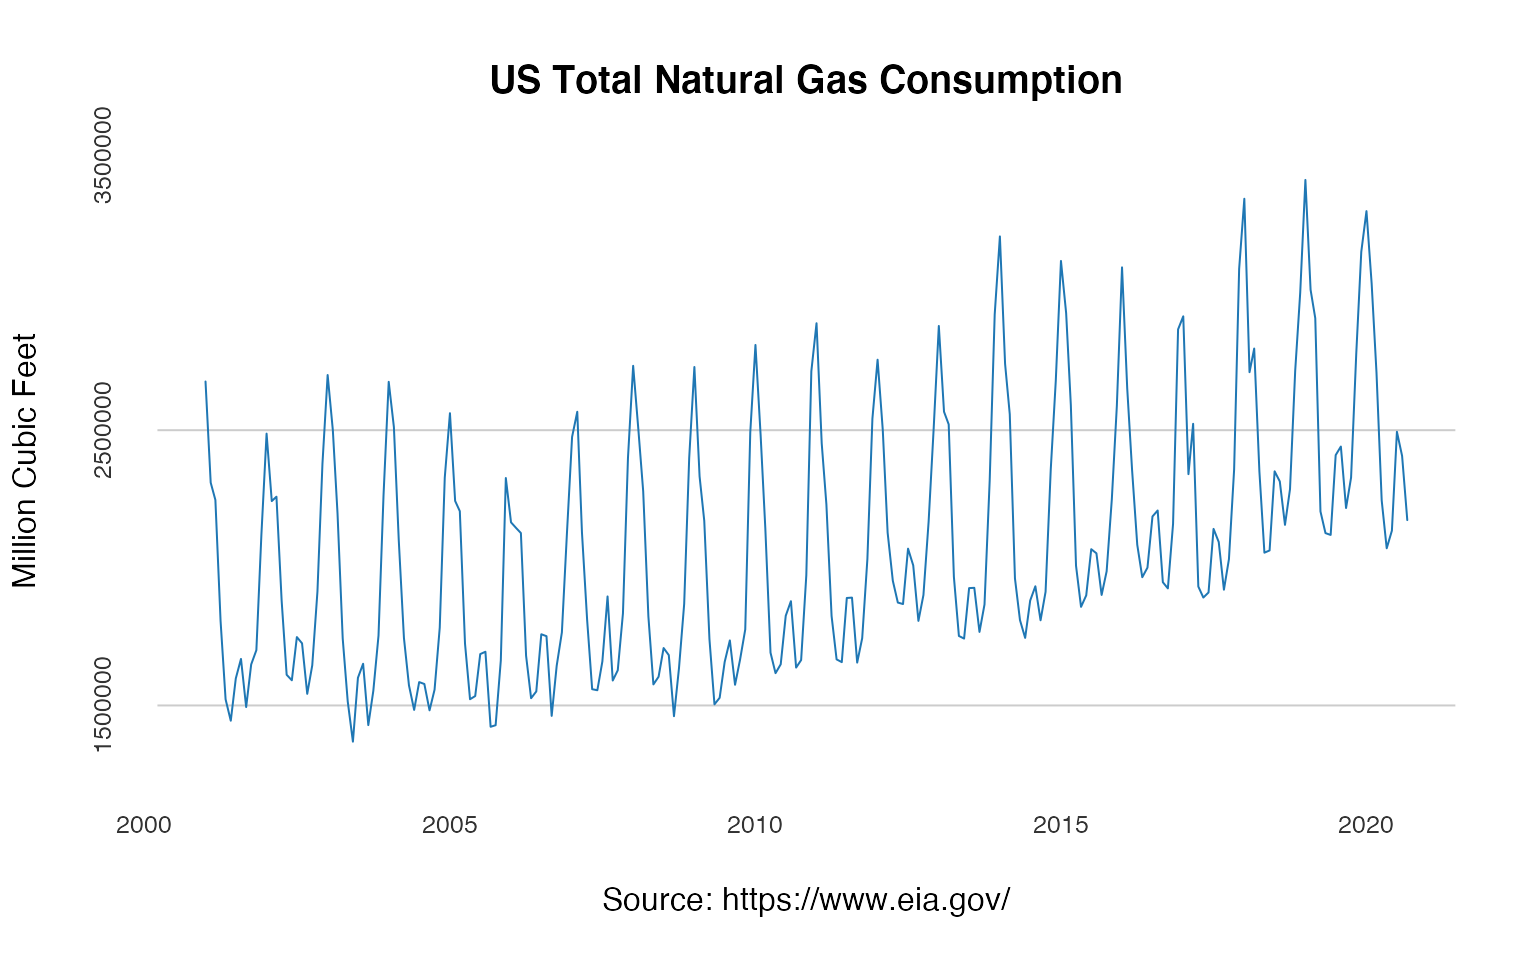
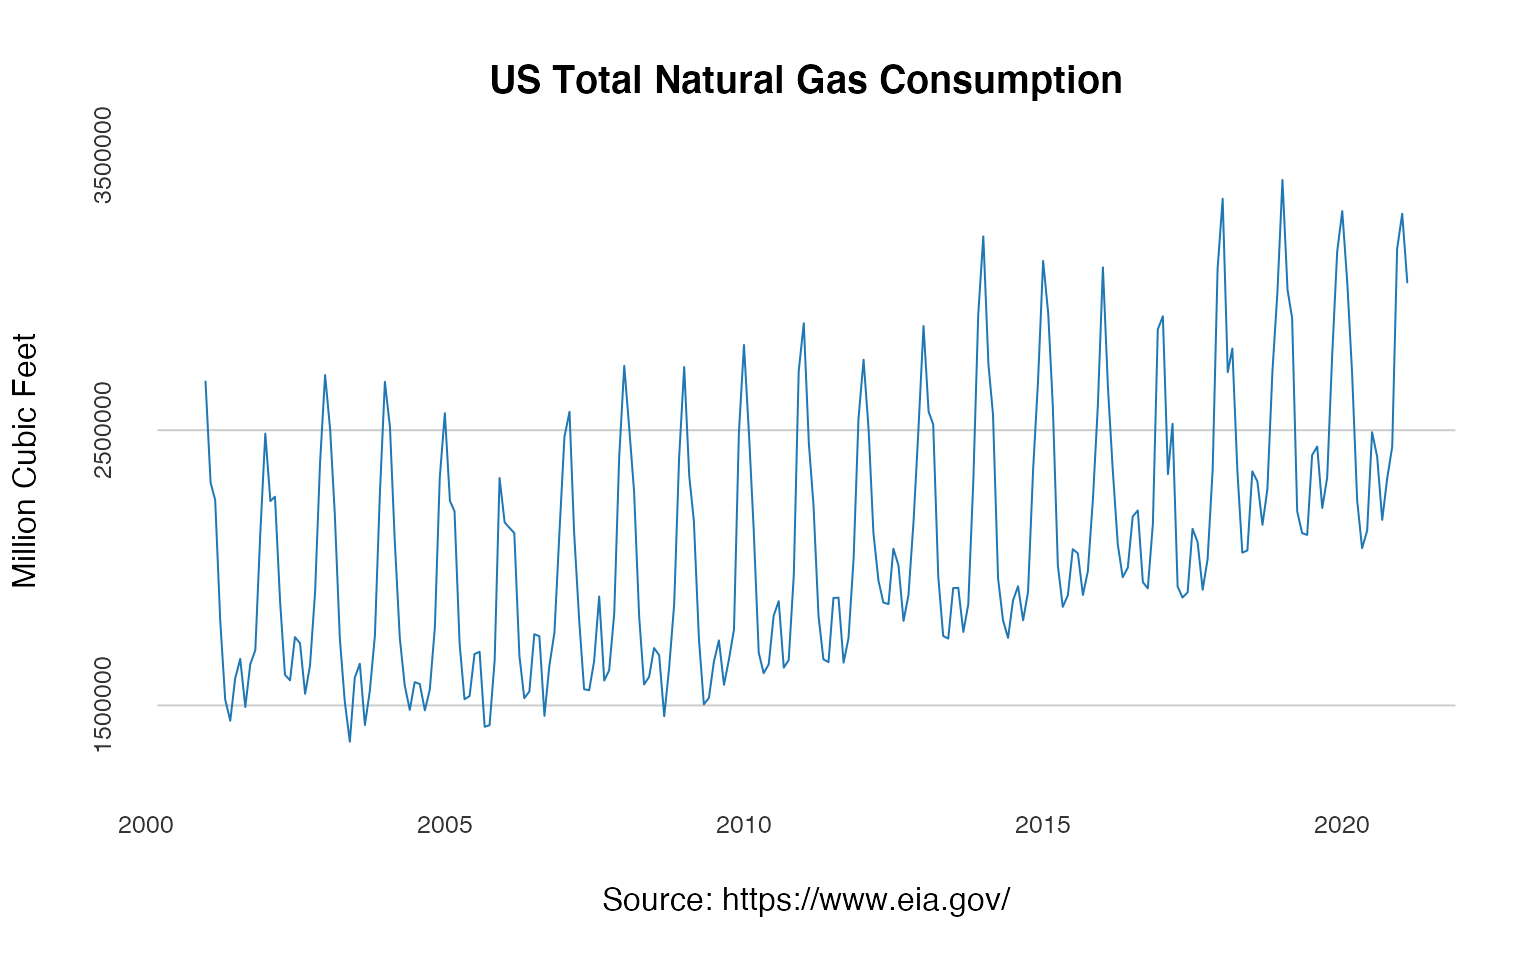
update the docs

diff --git a/docs/reference/us_total.html b/docs/reference/us_total.html
@@ -73,7 +73,7 @@ Units: Million Cubic Feet" />
       </button>
       <span class="navbar-brand">
         <a class="navbar-link" href="../index.html">USgas</a>
-        <span class="version label label-default" data-toggle="tooltip" data-placement="bottom" title="Released version">0.1.0</span>
+        <span class="version label label-default" data-toggle="tooltip" data-placement="bottom" title="Released version">0.1.1</span>
       </span>
     </div>
 
@@ -187,7 +187,7 @@ Units: Million Cubic Feet" />
 </div><div class='input'>
 
 
-<span class='fu'><a href='https://rdrr.io/r/graphics/mtext.html'>mtext</a></span>(side =<span class='fl'>1</span>, text = <span class='fu'><a href='https://rdrr.io/r/base/format.html'>format</a></span>(<span class='kw'>at_x</span>, digits=<span class='fl'>0</span>, nsmall=<span class='fl'>0</span>), at = <span class='kw'>at_x</span>,
+<span class='fu'><a href='https://rdrr.io/r/graphics/mtext.html'>mtext</a></span>(side =<span class='fl'>1</span>, text = <span class='fu'><a href='https://rdrr.io/r/base/format.html'>format</a></span>(<span class='kw'>at_x</span>,  nsmall=<span class='fl'>0</span>), at = <span class='kw'>at_x</span>,
       col = <span class='st'>"grey20"</span>, line = <span class='fl'>1</span>, cex = <span class='fl'>0.8</span>)
 </div><div class='input'>
 <span class='fu'><a href='https://rdrr.io/r/graphics/mtext.html'>mtext</a></span>(side =<span class='fl'>2</span>, text = <span class='fu'><a href='https://rdrr.io/r/base/format.html'>format</a></span>(<span class='kw'>at_y</span>, scientific = <span class='fl'>FALSE</span>), at = <span class='kw'>at_y</span>,
@@ -237,7 +237,7 @@ Units: Million Cubic Feet" />
 </div><div class='input'><span class='fu'><a href='https://rdrr.io/r/graphics/lines.html'>lines</a></span>(<span class='kw'>ne_wide</span><span class='op'>$</span><span class='kw'>year</span>, <span class='kw'>ne_wide</span><span class='op'>$</span><span class='kw'>Vermont</span>, col = <span class='st'>"#ef476f"</span>)
 </div><div class='input'>
 <span class='co'># Add the y and x axis ticks</span>
-<span class='fu'><a href='https://rdrr.io/r/graphics/mtext.html'>mtext</a></span>(side =<span class='fl'>1</span>, text = <span class='fu'><a href='https://rdrr.io/r/base/format.html'>format</a></span>(<span class='kw'>at_x</span>, digits=<span class='fl'>0</span>, nsmall=<span class='fl'>0</span>), at = <span class='kw'>at_x</span>,
+<span class='fu'><a href='https://rdrr.io/r/graphics/mtext.html'>mtext</a></span>(side =<span class='fl'>1</span>, text = <span class='fu'><a href='https://rdrr.io/r/base/format.html'>format</a></span>(<span class='kw'>at_x</span>, nsmall=<span class='fl'>0</span>), at = <span class='kw'>at_x</span>,
       col = <span class='st'>"grey20"</span>, line = <span class='fl'>1</span>, cex = <span class='fl'>0.8</span>)
 </div><div class='input'>
 <span class='fu'><a href='https://rdrr.io/r/graphics/mtext.html'>mtext</a></span>(side =<span class='fl'>2</span>, text = <span class='fu'><a href='https://rdrr.io/r/base/format.html'>format</a></span>(<span class='kw'>at_y</span>, scientific = <span class='fl'>FALSE</span>), at = <span class='kw'>at_y</span>,

diff --git a/docs/articles/introduction.html b/docs/articles/introduction.html
@@ -31,7 +31,7 @@
       </button>
       <span class="navbar-brand">
         <a class="navbar-link" href="../index.html">USgas</a>
-        <span class="version label label-default" data-toggle="tooltip" data-placement="bottom" title="Released version">0.1.0</span>
+        <span class="version label label-default" data-toggle="tooltip" data-placement="bottom" title="Released version">0.1.1</span>
       </span>
     </div>
 
@@ -194,7 +194,7 @@
      xlab = <span class="st">"Source: https://www.eia.gov/"</span>,
      ylab = <span class="st">"Million Cubic Feet"</span>)
 
-<span class="fu"><a href="https://rdrr.io/r/graphics/mtext.html">mtext</a></span>(side =<span class="fl">1</span>, text = <span class="fu"><a href="https://rdrr.io/r/base/format.html">format</a></span>(<span class="kw">at_x</span>, digits=<span class="fl">0</span>, nsmall=<span class="fl">0</span>), at = <span class="kw">at_x</span>,
+<span class="fu"><a href="https://rdrr.io/r/graphics/mtext.html">mtext</a></span>(side =<span class="fl">1</span>, text = <span class="fu"><a href="https://rdrr.io/r/base/format.html">format</a></span>(<span class="kw">at_x</span>, nsmall=<span class="fl">0</span>), at = <span class="kw">at_x</span>,
       col = <span class="st">"grey20"</span>, line = <span class="fl">1</span>, cex = <span class="fl">0.8</span>)
 
 <span class="fu"><a href="https://rdrr.io/r/graphics/mtext.html">mtext</a></span>(side =<span class="fl">2</span>, text = <span class="fu"><a href="https://rdrr.io/r/base/format.html">format</a></span>(<span class="kw">at_y</span>, scientific = <span class="fl">FALSE</span>), at = <span class="kw">at_y</span>,
@@ -245,7 +245,7 @@
 
 <span class="co"># Add the y and x axis ticks</span>
 
-<span class="fu"><a href="https://rdrr.io/r/graphics/mtext.html">mtext</a></span>(side =<span class="fl">1</span>, text = <span class="fu"><a href="https://rdrr.io/r/base/format.html">format</a></span>(<span class="kw">at_x</span>, digits=<span class="fl">0</span>, nsmall=<span class="fl">0</span>), at = <span class="kw">at_x</span>,
+<span class="fu"><a href="https://rdrr.io/r/graphics/mtext.html">mtext</a></span>(side =<span class="fl">1</span>, text = <span class="fu"><a href="https://rdrr.io/r/base/format.html">format</a></span>(<span class="kw">at_x</span>, nsmall=<span class="fl">0</span>), at = <span class="kw">at_x</span>,
       col = <span class="st">"grey20"</span>, line = <span class="fl">1</span>, cex = <span class="fl">0.8</span>)
 
 <span class="fu"><a href="https://rdrr.io/r/graphics/mtext.html">mtext</a></span>(side =<span class="fl">2</span>, text = <span class="fu"><a href="https://rdrr.io/r/base/format.html">format</a></span>(<span class="kw">at_y</span>, scientific = <span class="fl">FALSE</span>), at = <span class="kw">at_y</span>,

diff --git a/docs/index.html b/docs/index.html
@@ -31,7 +31,7 @@
       </button>
       <span class="navbar-brand">
         <a class="navbar-link" href="index.html">USgas</a>
-        <span class="version label label-default" data-toggle="tooltip" data-placement="bottom" title="Released version">0.1.0</span>
+        <span class="version label label-default" data-toggle="tooltip" data-placement="bottom" title="Released version">0.1.1</span>
       </span>
     </div>
 
@@ -120,7 +120,7 @@
 <span class="fu"><a href="https://rdrr.io/r/utils/data.html">data</a></span>(<span class="kw">us_total</span>)
 
 <span class="fu"><a href="https://rdrr.io/r/utils/str.html">str</a></span>(<span class="kw">us_total</span>)
-<span class="co">#&gt; 'data.frame':    1265 obs. of  3 variables:</span>
+<span class="co">#&gt; 'data.frame':    1266 obs. of  3 variables:</span>
 <span class="co">#&gt;  $ year : int  1997 1998 1999 2000 2001 2002 2003 2004 2005 2006 ...</span>
 <span class="co">#&gt;  $ state: chr  "Alabama" "Alabama" "Alabama" "Alabama" ...</span>
 <span class="co">#&gt;  $ y    : int  324158 329134 337270 353614 332693 379343 350345 382367 353156 391093 ...</span>
@@ -186,7 +186,7 @@
 
 <span class="co"># Add the y and x axis ticks</span>
 
-<span class="fu"><a href="https://rdrr.io/r/graphics/mtext.html">mtext</a></span>(side =<span class="fl">1</span>, text = <span class="fu"><a href="https://rdrr.io/r/base/format.html">format</a></span>(<span class="kw">at_x</span>, digits=<span class="fl">0</span>, nsmall=<span class="fl">0</span>), at = <span class="kw">at_x</span>,
+<span class="fu"><a href="https://rdrr.io/r/graphics/mtext.html">mtext</a></span>(side =<span class="fl">1</span>, text = <span class="fu"><a href="https://rdrr.io/r/base/format.html">format</a></span>(<span class="kw">at_x</span>, nsmall=<span class="fl">0</span>), at = <span class="kw">at_x</span>,
       col = <span class="st">"grey20"</span>, line = <span class="fl">1</span>, cex = <span class="fl">0.8</span>)
 
 <span class="fu"><a href="https://rdrr.io/r/graphics/mtext.html">mtext</a></span>(side =<span class="fl">2</span>, text = <span class="fu"><a href="https://rdrr.io/r/base/format.html">format</a></span>(<span class="kw">at_y</span>, scientific = <span class="fl">FALSE</span>), at = <span class="kw">at_y</span>,
@@ -238,6 +238,8 @@
     <div class="links">
 <h2>Links</h2>
 <ul class="list-unstyled">
+<li>Download from CRAN at <br><a href="https://cloud.r-project.org/package=USgas">https://cloud.r-project.org/package=USgas</a>
+</li>
 <li>Browse source code at <br><a href="https://github.com/RamiKrispin/USgas/">https://github.com/RamiKrispin/USgas/</a>
 </li>
 <li>Report a bug at <br><a href="https://github.com/RamiKrispin/USgas/issues">https://github.com/RamiKrispin/USgas/issues</a>

diff --git a/docs/reference/us_residential.html b/docs/reference/us_residential.html
@@ -73,7 +73,7 @@ Units: Million Cubic Feet" />
       </button>
       <span class="navbar-brand">
         <a class="navbar-link" href="../index.html">USgas</a>
-        <span class="version label label-default" data-toggle="tooltip" data-placement="bottom" title="Released version">0.1.0</span>
+        <span class="version label label-default" data-toggle="tooltip" data-placement="bottom" title="Released version">0.1.1</span>
       </span>
     </div>
 
@@ -164,12 +164,12 @@ Units: Million Cubic Feet" />
 
 <span class='fu'><a href='https://rdrr.io/r/utils/head.html'>head</a></span>(<span class='kw'>us_res_total</span>)
 </div><div class='output co'>#&gt;             date state      y
-#&gt; 16765 1973-01-01  U.S. 843900
-#&gt; 16766 1973-02-01  U.S. 747331
-#&gt; 16767 1973-03-01  U.S. 648504
-#&gt; 16768 1973-04-01  U.S. 465867
-#&gt; 16769 1973-05-01  U.S. 326313
-#&gt; 16770 1973-06-01  U.S. 207172</div><div class='input'>
+#&gt; 16985 1973-01-01  U.S. 843900
+#&gt; 16986 1973-02-01  U.S. 747331
+#&gt; 16987 1973-03-01  U.S. 648504
+#&gt; 16988 1973-04-01  U.S. 465867
+#&gt; 16989 1973-05-01  U.S. 326313
+#&gt; 16990 1973-06-01  U.S. 207172</div><div class='input'>
 <span class='kw'>at_x</span> <span class='op'>&lt;-</span> <span class='fu'><a href='https://rdrr.io/r/base/seq.Date.html'>seq.Date</a></span>(from = <span class='fu'><a href='https://rdrr.io/r/base/as.Date.html'>as.Date</a></span>(<span class='st'>"1980-01-01"</span>),
                  to = <span class='fu'><a href='https://rdrr.io/r/base/as.Date.html'>as.Date</a></span>(<span class='st'>"2020-01-01"</span>),
                  length.out = <span class='fl'>5</span>)

diff --git a/docs/news/index.html b/docs/news/index.html
@@ -71,7 +71,7 @@
       </button>
       <span class="navbar-brand">
         <a class="navbar-link" href="../index.html">USgas</a>
-        <span class="version label label-default" data-toggle="tooltip" data-placement="bottom" title="Released version">0.1.0</span>
+        <span class="version label label-default" data-toggle="tooltip" data-placement="bottom" title="Released version">0.1.1</span>
       </span>
     </div>
 
@@ -126,9 +126,19 @@
       <small>Source: <a href='https://github.com/RamiKrispin/USgas/blob/master/NEWS.md'><code>NEWS.md</code></a></small>
     </div>
 
+    <div id="usgas-011" class="section level1">
+<h1 class="page-header" data-toc-text="0.1.1">
+<a href="#usgas-011" class="anchor"></a>USgas 0.1.1<small> Unreleased </small>
+</h1>
+<ul>
+<li>Fixing CRAN errors - removing the <code>digits</code> argument from the <code>format</code> function</li>
+<li>Updating the data - monthly data up-to-date to Feb 21</li>
+</ul>
+</div>
     <div id="usgas-010" class="section level1">
 <h1 class="page-header" data-toc-text="0.1.0">
-<a href="#usgas-010" class="anchor"></a>USgas 0.1.0</h1>
+<a href="#usgas-010" class="anchor"></a>USgas 0.1.0<small> 2020-12-17 </small>
+</h1>
 <ul>
 <li>Added the <code>us_residential</code> dataset, describing the US monthly natural gas residential consumption by state and aggregate level</li>
 <li>Added the <code>us_total</code> dataset, describing the US annual natural gas consumption by state and aggregate level</li>

diff --git a/docs/reference/us_monthly.html b/docs/reference/us_monthly.html
@@ -73,7 +73,7 @@ Units: Million Cubic Feet" />
       </button>
       <span class="navbar-brand">
         <a class="navbar-link" href="../index.html">USgas</a>
-        <span class="version label label-default" data-toggle="tooltip" data-placement="bottom" title="Released version">0.1.0</span>
+        <span class="version label label-default" data-toggle="tooltip" data-placement="bottom" title="Released version">0.1.1</span>
       </span>
     </div>
 

diff --git a/docs/articles/index.html b/docs/articles/index.html
@@ -71,7 +71,7 @@
       </button>
       <span class="navbar-brand">
         <a class="navbar-link" href="../index.html">USgas</a>
-        <span class="version label label-default" data-toggle="tooltip" data-placement="bottom" title="Released version">0.1.0</span>
+        <span class="version label label-default" data-toggle="tooltip" data-placement="bottom" title="Released version">0.1.1</span>
       </span>
     </div>
 

diff --git a/docs/reference/index.html b/docs/reference/index.html
@@ -71,7 +71,7 @@
       </button>
       <span class="navbar-brand">
         <a class="navbar-link" href="../index.html">USgas</a>
-        <span class="version label label-default" data-toggle="tooltip" data-placement="bottom" title="Released version">0.1.0</span>
+        <span class="version label label-default" data-toggle="tooltip" data-placement="bottom" title="Released version">0.1.1</span>
       </span>
     </div>
 

diff --git a/docs/404.html b/docs/404.html
@@ -71,7 +71,7 @@
       </button>
       <span class="navbar-brand">
         <a class="navbar-link" href="index.html">USgas</a>
-        <span class="version label label-default" data-toggle="tooltip" data-placement="bottom" title="Released version">0.1.0</span>
+        <span class="version label label-default" data-toggle="tooltip" data-placement="bottom" title="Released version">0.1.1</span>
       </span>
     </div>
 

diff --git a/docs/LICENSE-text.html b/docs/LICENSE-text.html
@@ -71,7 +71,7 @@
       </button>
       <span class="navbar-brand">
         <a class="navbar-link" href="index.html">USgas</a>
-        <span class="version label label-default" data-toggle="tooltip" data-placement="bottom" title="Released version">0.1.0</span>
+        <span class="version label label-default" data-toggle="tooltip" data-placement="bottom" title="Released version">0.1.1</span>
       </span>
     </div>
 

diff --git a/docs/LICENSE.html b/docs/LICENSE.html
@@ -71,7 +71,7 @@
       </button>
       <span class="navbar-brand">
         <a class="navbar-link" href="index.html">USgas</a>
-        <span class="version label label-default" data-toggle="tooltip" data-placement="bottom" title="Released version">0.1.0</span>
+        <span class="version label label-default" data-toggle="tooltip" data-placement="bottom" title="Released version">0.1.1</span>
       </span>
     </div>
 

diff --git a/docs/authors.html b/docs/authors.html
@@ -71,7 +71,7 @@
       </button>
       <span class="navbar-brand">
         <a class="navbar-link" href="index.html">USgas</a>
-        <span class="version label label-default" data-toggle="tooltip" data-placement="bottom" title="Released version">0.1.0</span>
+        <span class="version label label-default" data-toggle="tooltip" data-placement="bottom" title="Released version">0.1.1</span>
       </span>
     </div>
 
